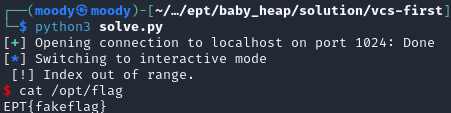
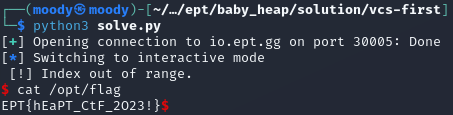
krloer baby heap ept 2023

Changed region(s): [[0.0, 0.0265, 1.0, 1.0]]

diff --git a/writeups/Pwn/Veal and Car's first baby (heap)/WackAttack/README.md b/writeups/Pwn/Veal and Car's first baby (heap)/WackAttack/README.md
@@ -1,13 +1,26 @@
-## Intro to tcache poisoning
-### EPT Pwn baby heap challenge
+# Veal and Car's first baby (heap).
+Author: nordbo
+
+Flag: `EPT{hEaPT_CtF_2O23!}`
+## Description
+```
+This challenge is intended to be an introduction to use after free and heap t-cache exploitation. Read the README.md in the handout.
+
+nc io.ept.gg 30005
+```
+
+## Provided challenge files
+* [vcs_handout.tar.gz](./vcs_handout.tar.gz)
+
+## Solution
+
+### Intro to tcache poisoning
 
 #### Poisoning tcache bins to create a write-what-where gadget and overwrite a GOT address.
 
 Author: krloer
 
 This was a pwn challenge at EPT CTF 2023 with 5 solves. It is perfect if you would like to learn about the tcache and tcache poisoning. The challenge files provided were a dockerfile, a dockerfile for development, a very nice README, the programs C code and the binary. I did not use the dev environment as I recently made my own template that attaches with gef and pwntools to a docker process. The gef script I'm sourcing can be found [here](https://github.com/bata24/gef) (but it is not necessary).
-
-Handout: [vcs_handout.tar.gz](vcs_handout.tar.gz)
 
 Reading and running the binary, it looks like a normal CRUD challenge with functions that Create, Read, Update and Delete heap chunks. Since the challenge description called it a tcache intro challenge, I immediately considered tcache poisoning which looked promising. For tcache poisoning to be a viable plan of attack we usually need a UAF and a Modify function, and we have both. The UAF exists because when the program calls free in the `delete()` function, it doesnt clear the heap pointer it frees. This means we can edit the address itemList\[idx] points to after it is free'd (-> UAF).
 
@@ -133,7 +146,9 @@ Running this locally gives us a shell, and running it against the remote lets us
 
 ![getting the flag](./images/flag.png "getting the flag")
 
-## Full exploit:
+If you liked this writeup, feel free to check out the original and other similar writeups at [ctf.krloer.com](https://ctf.krloer.com/writeups/ept/baby_heap/)
+
+### Full exploit:
 
 ```py
 #!/usr/bin/env python3
